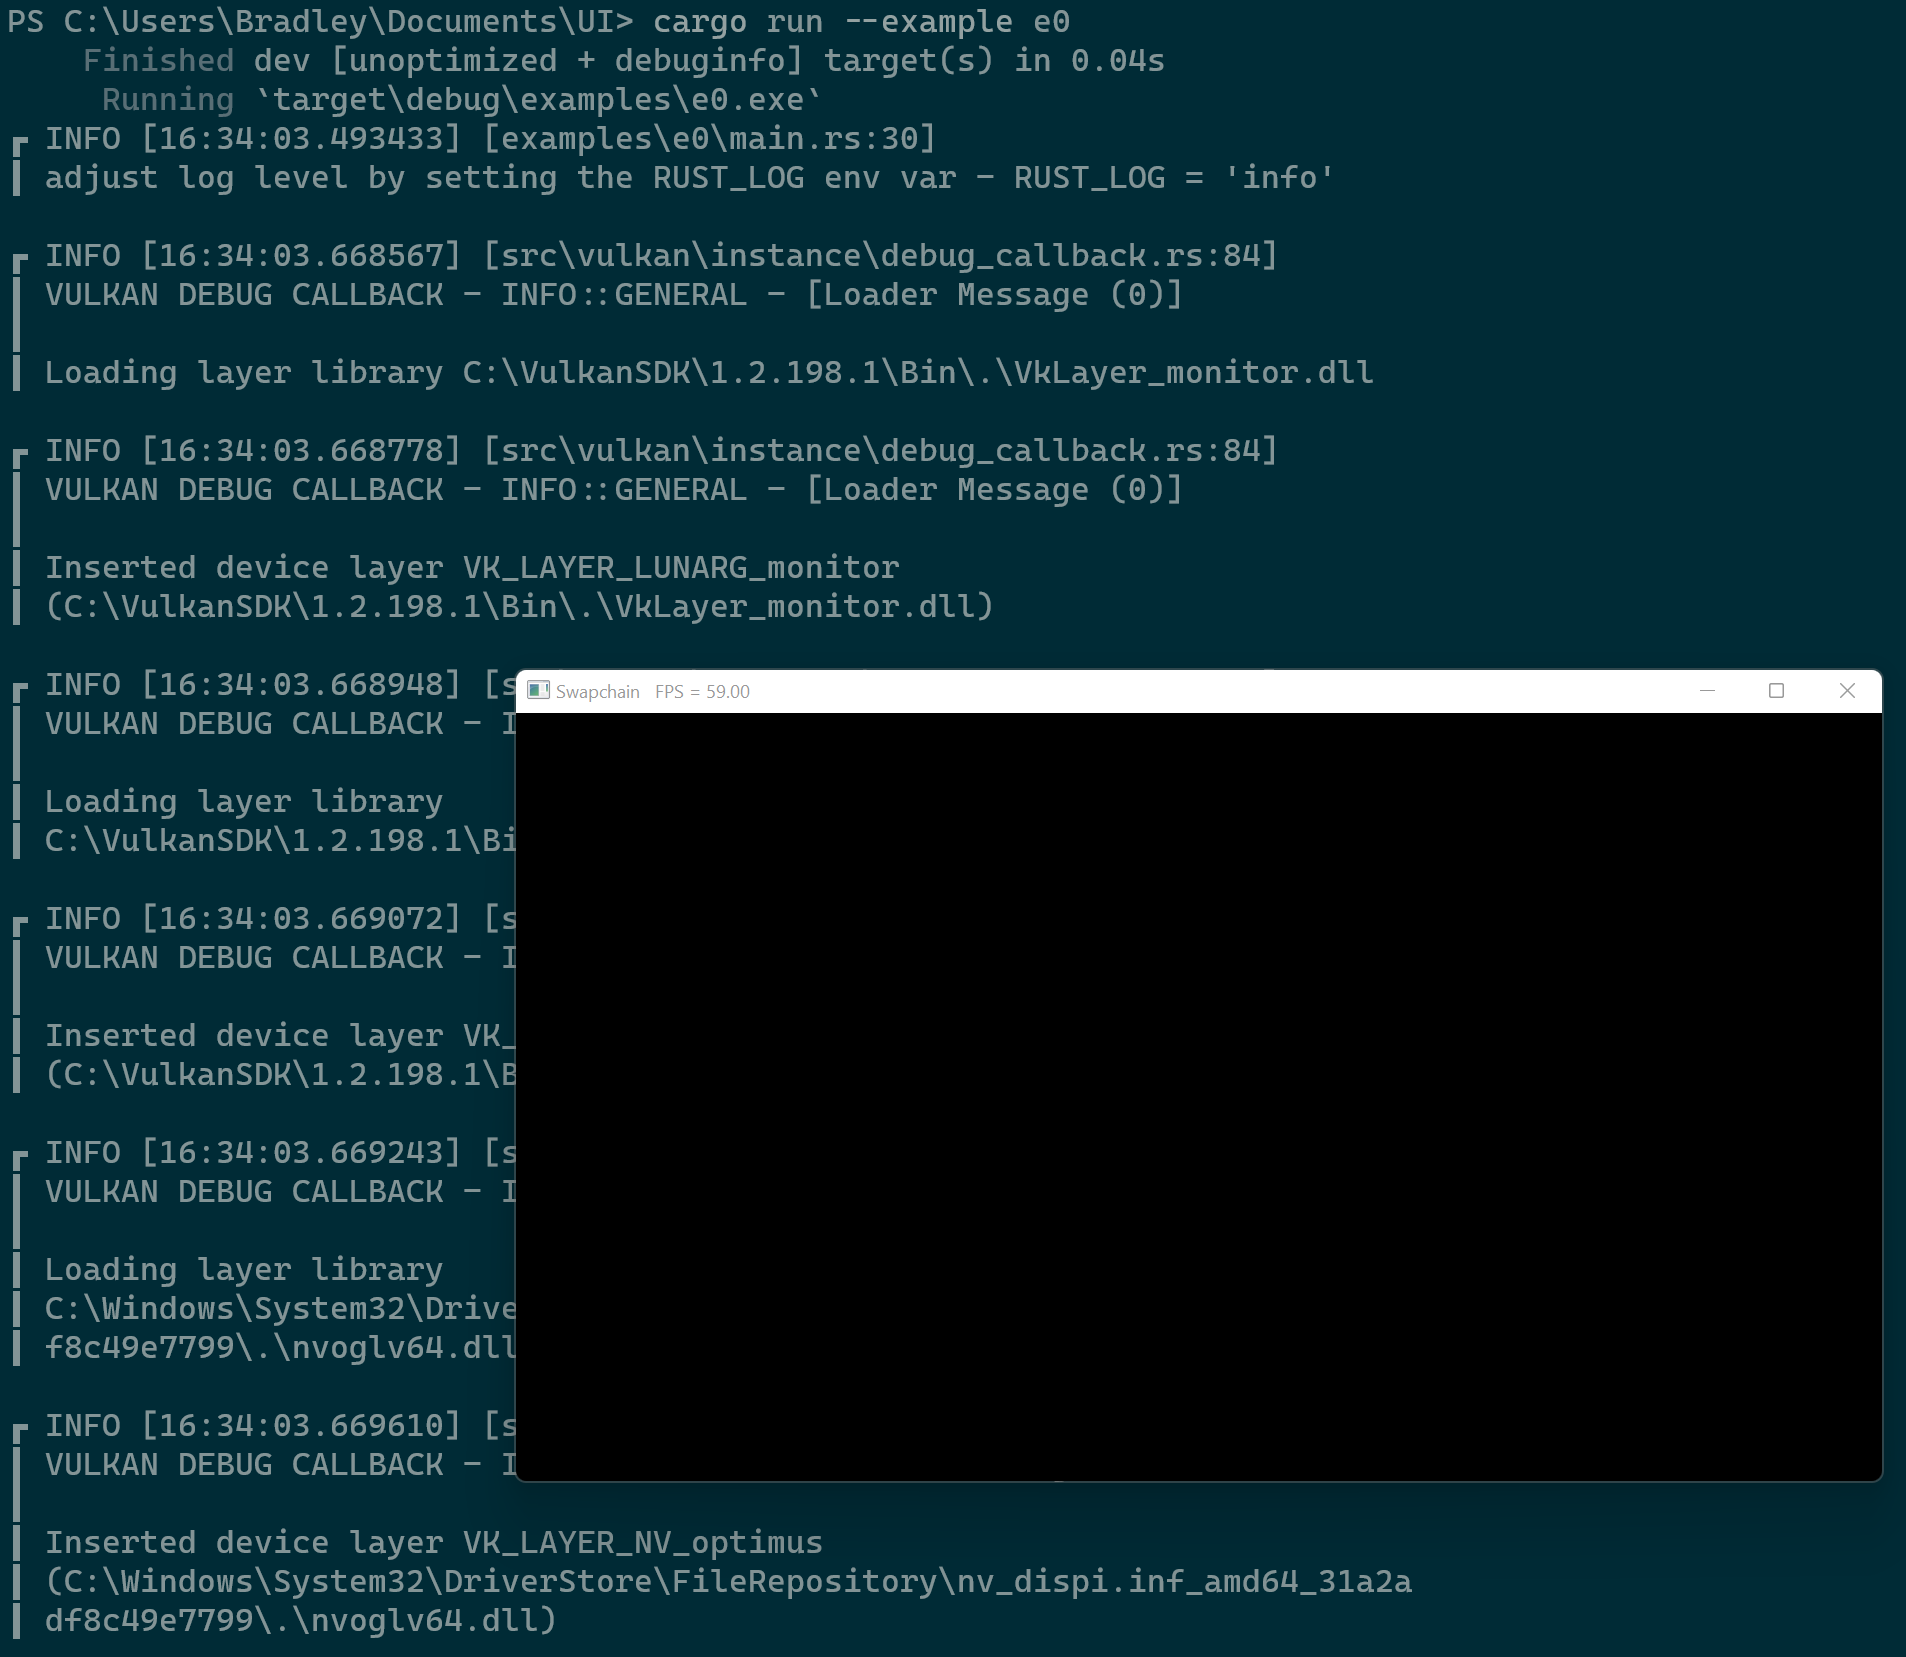
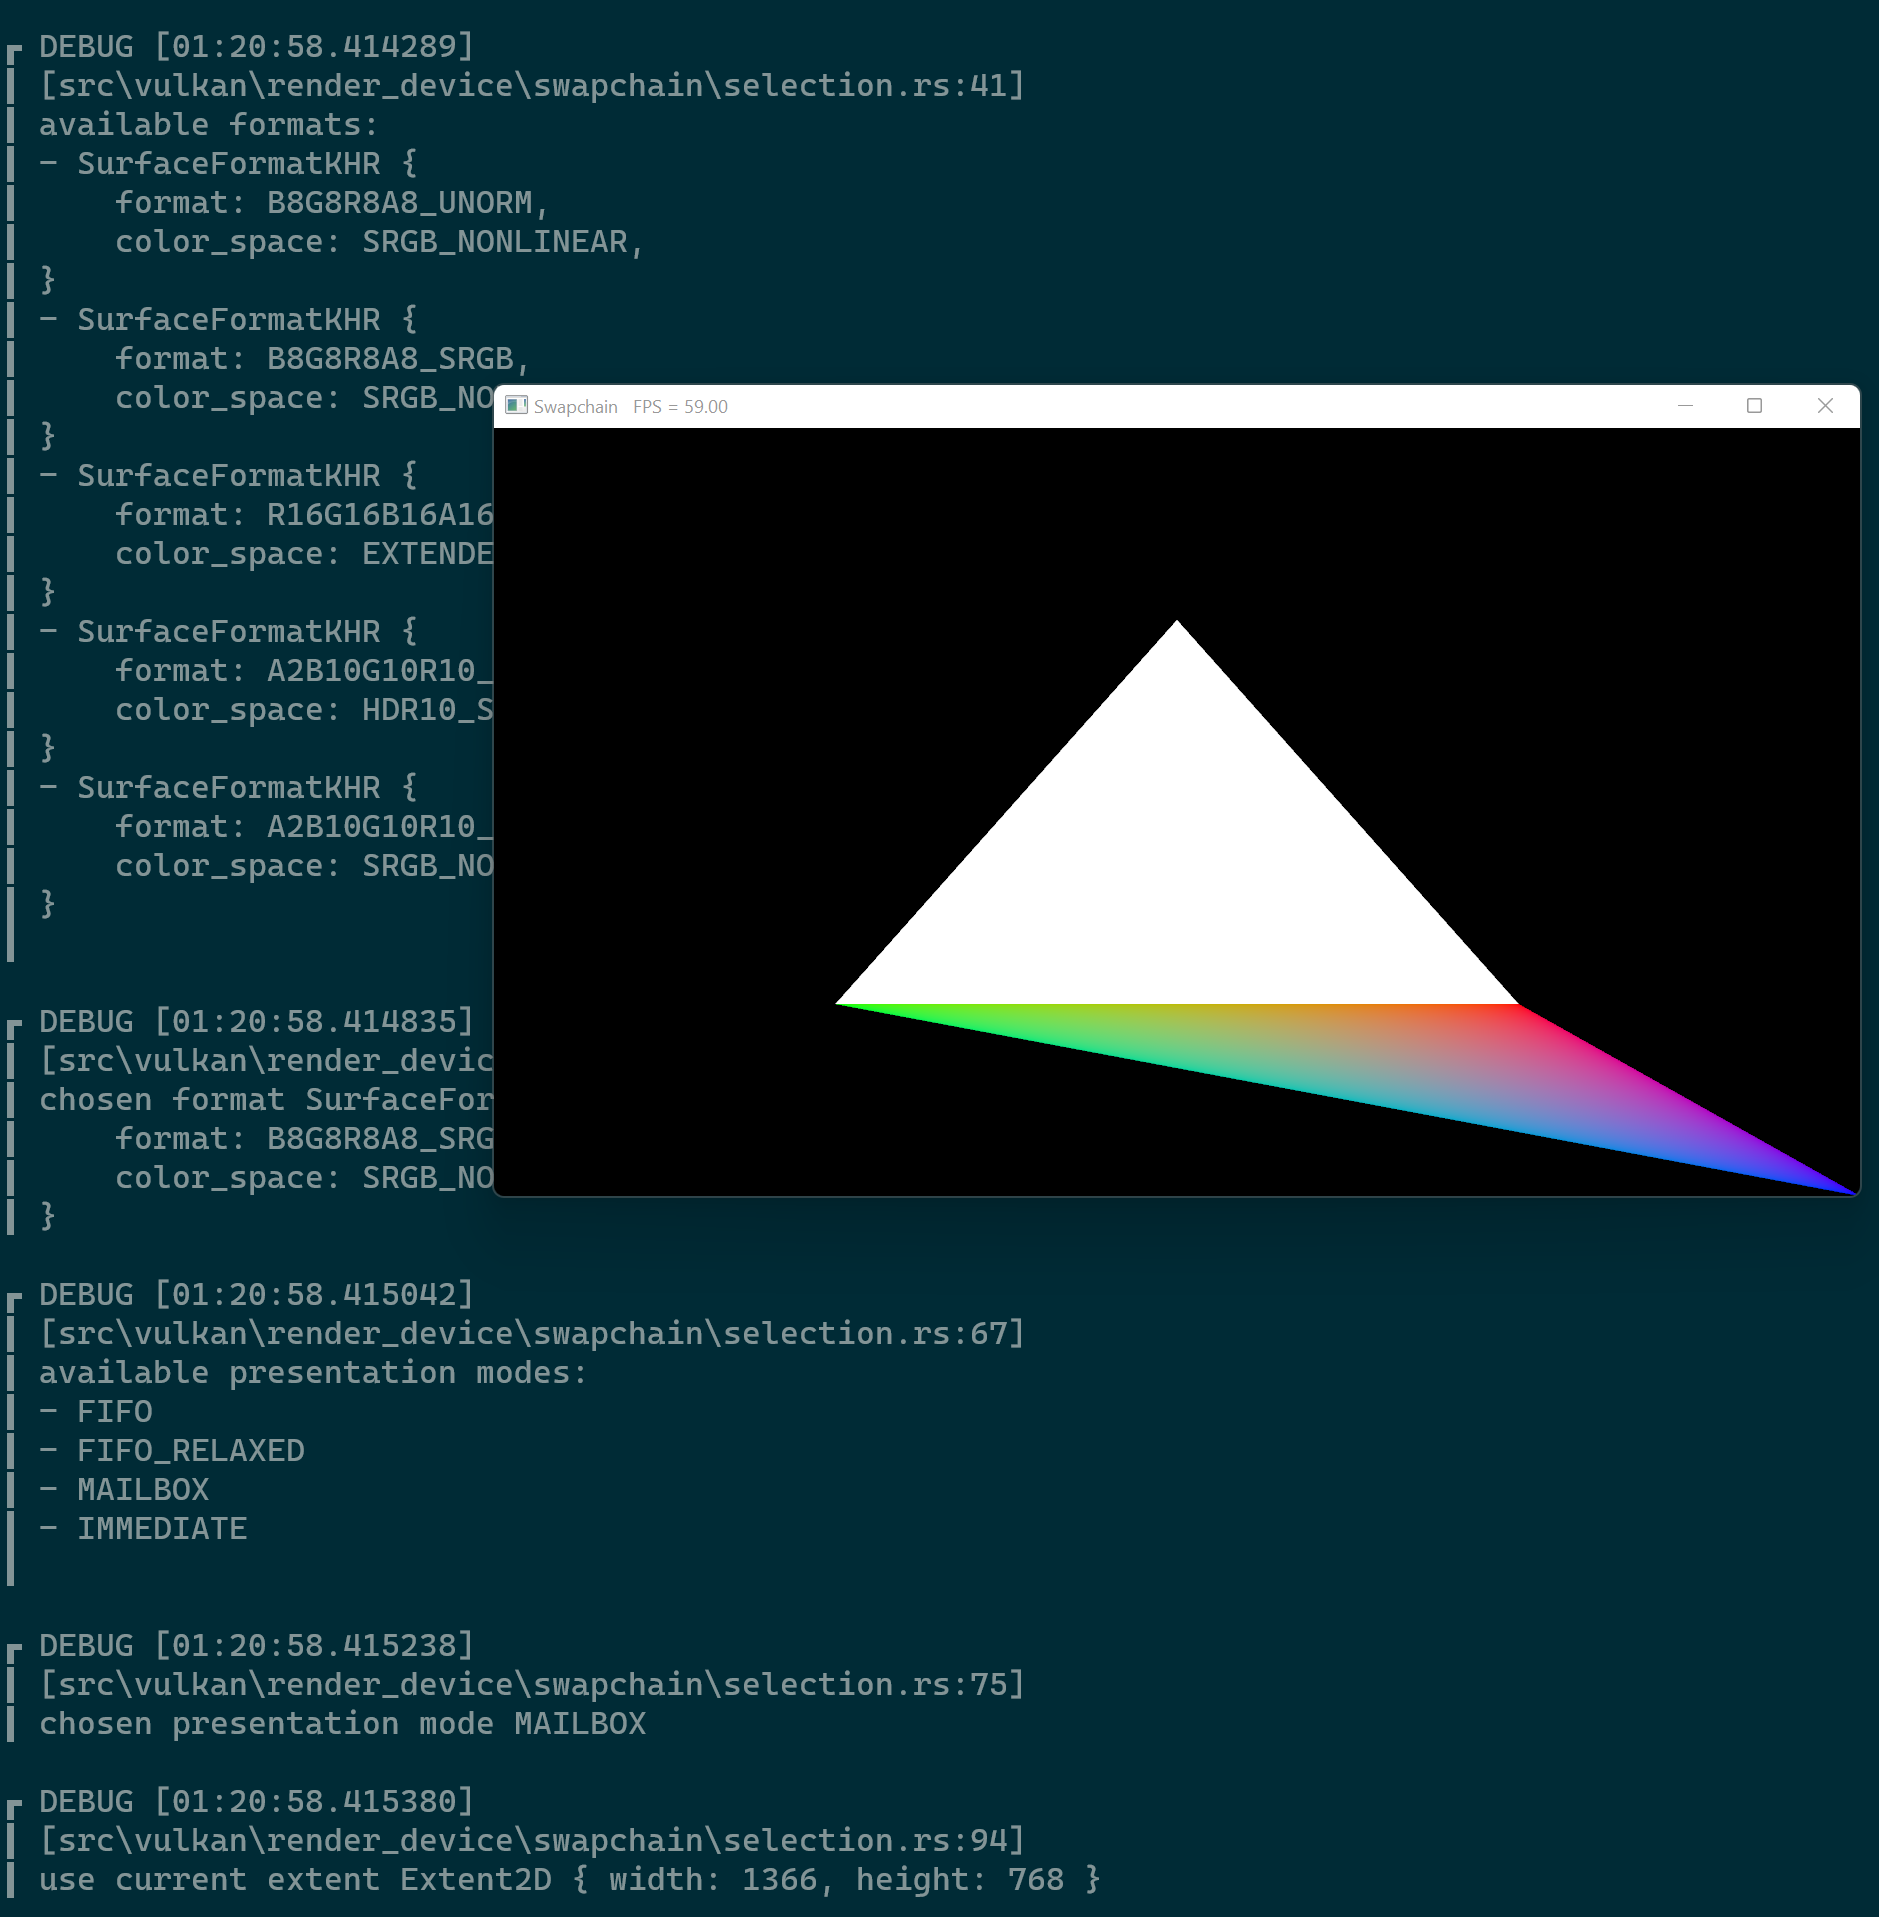
update readme + screenshots

diff --git a/README.md b/README.md
@@ -1,18 +1,8 @@
-# AshStarter
+# UI
 
-This repository holds a series of example applications which use Ash bindings for the Vulkan API.
+This repository hosts a toy immediate-mode UI built from scratch with Vulkan.
 
 ## Contents
 
 1. [Hello World](./examples/e0)
-    * Basic rust application with state and a loop
-3. [Hello GLFW](./examples/e1)
-    * The first GLFW window
-5. [GLFW Lib](./examples/e2)
-    * Using AshStarter constructs to manage a GLFW window
-6. [Swapchain](./examples/e3)
-    * Using AshStarter constructs to manage a Swapchain for presenting cleared
-      frames to the screen
-8. [First Triangle](./examples/e4)
-9. [Multiple Render Passes](./examples/e5)
-10. [Multiple Passes Triangle](./examples/e6)
+    * First triangle with a passthrough renderer

diff --git a/examples/e0/README.md b/examples/e0/README.md
@@ -1,6 +1,6 @@
 # Renderers
 
-This example uses a single multisample render pass to clear the screen.
+This example renderes a multisampled triangle to the screen.
 
 
 ## Usage
